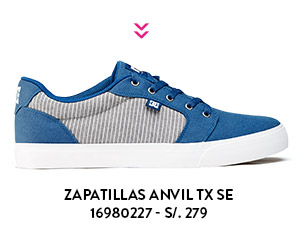
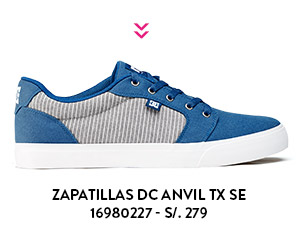
ajustes en responsive

Changed region(s): [[0.1812, 0.7714, 0.8456, 0.8286]]

diff --git a/js/main.js b/js/main.js
@@ -10,7 +10,7 @@ fb[12] = '¡Arma tu look con estas zapatillas! CONVERSE CHUCK TAYLOR ALL STAR S/
 fb[31] = '¡Arma tu look con estas zapatillas! CHUCK TAYLOR ALL STAR HIGH STREET S/. 199 Descubre más en www.viernesdezapatillas.pe #Ripley #viernesdezapatillas';
 fb[7] = '¡Arma tu look con estas zapatillas! ADIDAS PLIMCANA LOW S/. 249 Descubre más en www.viernesdezapatillas.pe #Ripley #viernesdezapatillas';
 fb[9] = '¡Arma tu look con estas zapatillas! NIKE PROMO COURT S/. 229 Descubre más en www.viernesdezapatillas.pe #Ripley #viernesdezapatillas';
-fb[5] = '¡Arma tu look con estas zapatillas! POE BURNISH BRIGHTS S/. 379 Descubre más en www.viernesdezapatillas.pe #Ripley #viernesdezapatillas';
+fb[5] = '¡Arma tu look con estas zapatillas! CATERPILLAR POE BURNISH BRIGHTS S/. 379 Descubre más en www.viernesdezapatillas.pe #Ripley #viernesdezapatillas';
 fb[11] = '¡Arma tu look con estas zapatillas! ADIDAS PLIMCANA S/. 259 Descubre más en www.viernesdezapatillas.pe #Ripley #viernesdezapatillas';
 fb[13] = '¡Arma tu look con estas zapatillas! NEW BALANCE GRIS S/. 249 Descubre más en www.viernesdezapatillas.pe #Ripley #viernesdezapatillas';
 fb[23] = '¡Arma tu look con estas zapatillas! PUMA FTR TF- RACER S/. 189 Descubre más en www.viernesdezapatillas.pe #Ripley #viernesdezapatillas';
@@ -30,7 +30,7 @@ fb[28] = '¡Arma tu look con estas zapatillas! NEW BALANCE S/. 239 Descubre más
 fb[26] = '¡Arma tu look con estas zapatillas! NEW BALANCE S/. 229 Descubre más en www.viernesdezapatillas.pe #Ripley #viernesdezapatillas';
 fb[24] = '¡Arma tu look con estas zapatillas! ADIDAS RACER LITE W S/. 239 Descubre más en www.viernesdezapatillas.pe #Ripley #viernesdezapatillas';
 fb[21] = '¡Arma tu look con estas zapatillas! DC Counsil SD S/. 279 Descubre más en www.viernesdezapatillas.pe #Ripley #viernesdezapatillas';
-fb[19] = '¡Arma tu look con estas zapatillas! ANVIL TX SE S/. 279 Descubre más en www.viernesdezapatillas.pe #Ripley #viernesdezapatillas';
+fb[19] = '¡Arma tu look con estas zapatillas! DC ANVIL TX SE S/. 279 Descubre más en www.viernesdezapatillas.pe #Ripley #viernesdezapatillas';
 fb[17] = '¡Arma tu look con estas zapatillas! GOTCHA GT-1510 S/. 129 Descubre más en www.viernesdezapatillas.pe #Ripley #viernesdezapatillas';
 var tw = [];
 tw[29] = 'https://twitter.com/home?status=%C2%A1Arma%20tu%20look%20con%20estas%20zapatillas!%20ADIDAS%20ZX%20FLUX%20S/.29%20Descubre%20m%C3%A1s%20en%20viernesdezapatillas.pe%20%23Ripley%20%23viernesdezapatillas';
@@ -42,7 +42,7 @@ tw[12] = 'https://twitter.com/home?status=%C2%A1Arma%20tu%20look%20con%20estas%2
 tw[31] = 'https://twitter.com/home?status=%C2%A1Arma%20tu%20look%20con%20estas%20zapatillas!%20CHUCK%20TAYLOR%20HIGH%20STREET%20S/.199%20Descubre%20m%C3%A1s%20en%20viernesdezapatillas.pe%20%23Ripley%20%23viernesdezapatillas';
 tw[7] = 'https://twitter.com/home?status=%C2%A1Arma%20tu%20look%20con%20estas%20zapatillas!%20ADIDAS%20PLIMCANA%20LOW%20S/.249%20Descubre%20m%C3%A1s%20en%20viernesdezapatillas.pe%20%23Ripley%20%23viernesdezapatillas';
 tw[9] = 'https://twitter.com/home?status=%C2%A1Arma%20tu%20look%20con%20estas%20zapatillas!%20NIKE%20PROMO%20COURT%20S/.229%20Descubre%20m%C3%A1s%20en%20viernesdezapatillas.pe%20%23Ripley%20%23viernesdezapatillas';
-tw[5] = 'https://twitter.com/home?status=%C2%A1Arma%20tu%20look%20con%20estas%20zapatillas!%20POE%20BURNISH%20BRIGHTS%20S/.379%20Descubre%20m%C3%A1s%20en%20viernesdezapatillas.pe%20%23Ripley%20%23viernesdezapatillas';
+tw[5] = 'https://twitter.com/home?status=%C2%A1Arma%20tu%20look%20con%20estas%20zapatillas!%20CATERPILLAR%20POE%20BURNISH%20BRIGHTS%20S/.379%20Descubre%20m%C3%A1s%20en%20viernesdezapatillas.pe%20%23Ripley%20%23viernesdezapatillas';
 tw[11] = 'https://twitter.com/home?status=%C2%A1Arma%20tu%20look%20con%20estas%20zapatillas!%20ADIDAS%20PLIMCANA%20S/.259%20Descubre%20m%C3%A1s%20en%20viernesdezapatillas.pe%20%23Ripley%20%23viernesdezapatillas';
 tw[13] = 'https://twitter.com/home?status=%C2%A1Arma%20tu%20look%20con%20estas%20zapatillas!%20NEW%20BALANCE%20GRIS%20S/.249%20Descubre%20m%C3%A1s%20en%20viernesdezapatillas.pe%20%23Ripley%20%23viernesdezapatillas';
 tw[23] = 'https://twitter.com/home?status=%C2%A1Arma%20tu%20look%20con%20estas%20zapatillas!%20PUMA%20FTR%20TF-%20RACER%20S/.189%20Descubre%20m%C3%A1s%20en%20viernesdezapatillas.pe%20%23Ripley%20%23viernesdezapatillas';
@@ -62,7 +62,7 @@ tw[28] = 'https://twitter.com/home?status=%C2%A1Arma%20tu%20look%20con%20estas%2
 tw[26] = 'https://twitter.com/home?status=%C2%A1Arma%20tu%20look%20con%20estas%20zapatillas!%20NEW%20BALANCE%20S/.229%20Descubre%20m%C3%A1s%20en%20viernesdezapatillas.pe%20%23Ripley%20%23viernesdezapatillas';
 tw[24] = 'https://twitter.com/home?status=%C2%A1Arma%20tu%20look%20con%20estas%20zapatillas!%20ADIDAS%20RACER%20LITE%20W%20S/.239%20Descubre%20m%C3%A1s%20en%20viernesdezapatillas.pe%20%23Ripley%20%23viernesdezapatillas';
 tw[21] = 'https://twitter.com/home?status=%C2%A1Arma%20tu%20look%20con%20estas%20zapatillas!%20DC%20Counsil%20SD%20S/.279%20Descubre%20m%C3%A1s%20en%20viernesdezapatillas.pe%20%23Ripley%20%23viernesdezapatillas';
-tw[19] = 'https://twitter.com/home?status=%C2%A1Arma%20tu%20look%20con%20estas%20zapatillas!%20ANVIL%20TX%20SE%20S/.279%20Descubre%20m%C3%A1s%20en%20viernesdezapatillas.pe%20%23Ripley%20%23viernesdezapatillas';
+tw[19] = 'https://twitter.com/home?status=%C2%A1Arma%20tu%20look%20con%20estas%20zapatillas!%20DC%20ANVIL%20TX%20SE%20S/.279%20Descubre%20m%C3%A1s%20en%20viernesdezapatillas.pe%20%23Ripley%20%23viernesdezapatillas';
 tw[17] = 'https://twitter.com/home?status=%C2%A1Arma%20tu%20look%20con%20estas%20zapatillas!%20GOTCHA%20GT-1507%20S/.129%20Descubre%20m%C3%A1s%20en%20viernesdezapatillas.pe%20%23Ripley%20%23viernesdezapatillas';
 
 function actualizarAlto(alto) {

diff --git a/css/mobile.css b/css/mobile.css
@@ -26,17 +26,6 @@ body {
 p {
 	margin-bottom:0
 }
-.no-gutter > [class*='col-'] {
-	padding-right:0;
-	padding-left:0
-}
-hr.separador {
-	border:1px solid #333;
-	height:0
-}
-.separador {
-	height:20%
-}
 .navbar {
 	z-index:11
 }
@@ -62,17 +51,6 @@ hr.separador {
 	-webkit-transform:rotate(180deg); /* Chrome, Safari, Opera */
 	transform:rotate(180deg);
 }
-.barra-menu {
-	position:absolute;
-	top:30px;
-	right:3%
-}
-.barra-menu a {
-	color:#000;
-	font-size:17px;
-	font-family:'gotham_htfbold';
-	margin-left:12px
-}
 footer {
 	background-color:#000;
 	height:42px;
@@ -85,14 +63,9 @@ footer p {
 }
 .landing {
 	background-color:#f9e52e;
-	background-image:url('../img/landing-zapatilla.jpg');
-	background-position:center center;
-	background-repeat:no-repeat;
-	background-attachment:fixed;
-	background-size:cover;
-	-webkit-background-size:cover;
-	-moz-background-size:cover;
-	-o-background-size:cover
+	background-image:url('../img/landing-zapatilla-mobile.jpg');
+	background-position:center bottom;
+	background-repeat:no-repeat
 }
 .home .contenido {
 	border:15px solid #f9e52e;
@@ -116,39 +89,6 @@ footer p {
 }
 div.calendario {
 	
-}
-td.calendario {
-	position:relative
-}
-td.calendario img {
-	border:5px solid #fff;
-	padding:2px 12px
-}
-td.calendario:hover img {
-	border:5px solid #f9e52e
-}
-td.calendario .ayuda {
-	border:none!important;
-	position:absolute;
-	left:50%;
-	bottom:0;
-	margin-left:-41px;
-	padding:0
-}
-.cerrar {
-	cursor:pointer;
-	margin-left:65%
-}
-.look.vacio {
-	margin-top:50%
-}
-.look.zapatilla {
-	margin-top:5%
-}
-.scroll-pane {
-	width:100%;
-	height:564px;
-	overflow:auto
 }
 .lookbook {
 	background-color:#009fe3
@@ -199,7 +139,7 @@ td.calendario .ayuda {
 	margin:6px
 }
 .top5 {
-	background:linear-gradient(180deg, white 70%, #f8db1b 30%)
+	
 }
 .top5 .container {
 	
@@ -216,6 +156,11 @@ td.calendario .ayuda {
 	top:0;
 	right:20px
 }
+.top5 p {
+	font-family:'brandon_grotesquebold';
+	font-size:13px
+}
+
 
 @media (max-width:767px) {
 	.grid-item {
@@ -242,23 +187,5 @@ td.calendario .ayuda {
 	}
 	.ayuda {
 		display:none!important
-	}
-	.top5 {
-		background:none
-	}
-}
-@media (max-width:1100px) {
-	.barra-menu a {
-		font-size:15px
-	}
-}
-@media (min-width:1200px) {
-	.top5 .container {
-		width:1250px;
-	}
-}
-@media (min-width:1450px) {
-	.top5 .container {
-		width:1500px;
 	}
 }

diff --git a/app/views/mobile.blade.php b/app/views/mobile.blade.php
@@ -764,7 +764,12 @@
 				<div class="slide" id="slide33">
 					<div class="row">
 						<div class="col-xs-8 col-xs-offset-2">
-							<img src="{{url()}}/img/top5/zapatilla-1.jpg" alt="" class="img-responsive center-block"><br><br>
+							<p class="text-center">
+								<img src="{{url()}}/img/top5/zapatilla-1.jpg" alt="" class="img-responsive center-block">
+								<br>
+								NEW BALANCE ZAPATILLA WL420DFA 17000538 S/. 239
+								<br><br>
+							</p>
 						</div>
 					</div>
 				</div>
@@ -778,7 +783,12 @@
 				<div class="slide" id="slide35">
 					<div class="row">
 						<div class="col-xs-8 col-xs-offset-2">
-							<img src="{{url()}}/img/top5/zapatilla-2.jpg" alt="" class="img-responsive center-block"><br><br>
+							<p class="text-center">
+								<img src="{{url()}}/img/top5/zapatilla-2.jpg" alt="" class="img-responsive center-block">
+								<br>
+								NIKE ZAPATILLA EASTHAM MID 16997073 S/. 299
+								<br><br>
+							</p>
 						</div>
 					</div>
 				</div>
@@ -792,7 +802,12 @@
 				<div class="slide" id="slide37">
 					<div class="row">
 						<div class="col-xs-8 col-xs-offset-2">
-							<img src="{{url()}}/img/top5/zapatilla-3.jpg" alt="" class="img-responsive center-block"><br><br>
+							<p class="text-center">
+								<img src="{{url()}}/img/top5/zapatilla-3.jpg" alt="" class="img-responsive center-block">
+								<br>
+								CONVERSE ZAPATILLA CHUCK TAYLOR ALL STAR 547257C 16992994 S/. 199
+								<br><br>
+							</p>
 						</div>
 					</div>
 				</div>
@@ -806,7 +821,12 @@
 				<div class="slide" id="slide39">
 					<div class="row">
 						<div class="col-xs-8 col-xs-offset-2">
-							<img src="{{url()}}/img/top5/zapatilla-4.jpg" alt="" class="img-responsive center-block"><br><br>
+							<p class="text-center">
+								<img src="{{url()}}/img/top5/zapatilla-4.jpg" alt="" class="img-responsive center-block">
+								<br>
+								ADIDAS ZAPATILLA ZX FIUX B34517 16842846 S/. 299
+								<br><br>
+							</p>
 						</div>
 					</div>
 				</div>
@@ -820,7 +840,12 @@
 				<div class="slide" id="slide41">
 					<div class="row">
 						<div class="col-xs-8 col-xs-offset-2">
-							<img src="{{url()}}/img/top5/zapatilla-5.jpg" alt="" class="img-responsive center-block"><br><br>
+							<p class="text-center">
+								<img src="{{url()}}/img/top5/zapatilla-5.jpg" alt="" class="img-responsive center-block">
+								<br>
+								PUMA ZAPATILLA CARSON RUNNER GLITCH 16991355 S/. 199
+								<br><br>
+							</p>
 						</div>
 					</div>
 				</div>
@@ -831,7 +856,9 @@
 				<div class="slide" id="slide42">
 					<div class="lookbook-detalle amarillo center-block">
 						<p class="text-center">
-							<img src="{{url()}}/img/lookbook/01.jpg" alt="" class="img-responsive center-block">
+							<a href="http://camillewalala.com/" target="_blank">
+								<img src="{{url()}}/img/lookbook/01.jpg" alt="" class="img-responsive center-block">
+							</a>
 							<br>
 							CAT ZAPATILLA MARI CANVAS WALALA<br>
 							17001556 - S/. 299
@@ -1148,14 +1175,14 @@
 						<p class="text-center">
 							<img src="{{url()}}/img/lookbook/30.jpg" alt="" class="img-responsive center-block">
 							<br>
-							NEW BALANCE ZAPATILLA ML400SNF<br>
-							16986608 - S/. 159
+							NEW BALANCE ZAPATILLA NBL U410 CC<br>
+							16979924 - S/. 199
 						</p>
 						<p class="text-center">
-							<a href="#" class="compartir-facebook" data-imagen="{{url()}}/img/lookbook/30.jpg" data-texto="¡Me fascinaron estas zapatillas! NEW BALANCE ML400SNF S/.159 Descubre más en www.viernesdezapatillas.pe #Moda #Ripley #viernesdezapatillas">
+							<a href="#" class="compartir-facebook" data-imagen="{{url()}}/img/lookbook/30.jpg" data-texto="¡Me fascinaron estas zapatillas! NEW BALANCE NBL U410 CC S/.199 Descubre más en www.viernesdezapatillas.pe #Moda #Ripley #viernesdezapatillas">
 								<img src="{{url()}}/img/lookbook-compartir-facebook.png" alt="">
 							</a>
-							<a href="https://twitter.com/home?status=%C2%A1Me%20encantaron%20estas%20zapatillas!%20NEW%20BALANCE%20ML400SNF%20S/.159%20Descubre%20m%C3%A1s%20en%20viernesdezapatillas.pe%20%23Ripley%20%23viernesdezapatillas" target="_blank">
+							<a href="https://twitter.com/home?status=%C2%A1Me%20encantaron%20estas%20zapatillas!%20NEW%20BALANCE%20NBL%20U410%20CC%20S/.199%20Descubre%20m%C3%A1s%20en%20viernesdezapatillas.pe%20%23Ripley%20%23viernesdezapatillas" target="_blank">
 								<img src="{{url()}}/img/lookbook-compartir-twitter.png" alt="">
 							</a>
 							<br>
@@ -1295,14 +1322,14 @@
 						<p class="text-center">
 							<img src="{{url()}}/img/lookbook/27.jpg" alt="" class="img-responsive center-block">
 							<br>
-							NEW BALANCE ZAPATILLA NBL U410 CC<br>
-							16979924 - S/. 199
+							INDEX ZAPATILLA NADI<br>
+							16791638 - S/. 69.90
 						</p>
 						<p class="text-center">
-							<a href="#" class="compartir-facebook" data-imagen="{{url()}}/img/lookbook/27.jpg" data-texto="¡Me fascinaron estas zapatillas! NEW BALANCE NBL U410 CC S/.199 Descubre más en www.viernesdezapatillas.pe #Moda #Ripley #viernesdezapatillas">
+							<a href="#" class="compartir-facebook" data-imagen="{{url()}}/img/lookbook/27.jpg" data-texto="¡Me fascinaron estas zapatillas! INDEX NADI S/.69.90 Descubre más en www.viernesdezapatillas.pe #Moda #Ripley #viernesdezapatillas">
 								<img src="{{url()}}/img/lookbook-compartir-facebook.png" alt="">
 							</a>
-							<a href="https://twitter.com/home?status=%C2%A1Me%20encantaron%20estas%20zapatillas!%20NEW%20BALANCE%20NBL%20U410%20CC%20S/.199%20Descubre%20m%C3%A1s%20en%20viernesdezapatillas.pe%20%23Ripley%20%23viernesdezapatillas" target="_blank">
+							<a href="https://twitter.com/home?status=%C2%A1Me%20encantaron%20estas%20zapatillas!%20INDEX%20NADI%20S/.69.90%20Descubre%20m%C3%A1s%20en%20viernesdezapatillas.pe%20%23Ripley%20%23viernesdezapatillas" target="_blank">
 								<img src="{{url()}}/img/lookbook-compartir-twitter.png" alt="">
 							</a>
 							<br>
@@ -1442,14 +1469,14 @@
 						<p class="text-center">
 							<img src="{{url()}}/img/lookbook/29.jpg" alt="" class="img-responsive center-block">
 							<br>
-							INDEX ZAPATILLA NADI<br>
-							16791638 - S/. 69.90
+							NEW BALANCE ZAPATILLA ML400SNF<br>
+							16986608 - S/. 159
 						</p>
 						<p class="text-center">
-							<a href="#" class="compartir-facebook" data-imagen="{{url()}}/img/lookbook/29.jpg" data-texto="¡Me fascinaron estas zapatillas! INDEX NADI S/.69.90 Descubre más en www.viernesdezapatillas.pe #Moda #Ripley #viernesdezapatillas">
+							<a href="#" class="compartir-facebook" data-imagen="{{url()}}/img/lookbook/29.jpg" data-texto="¡Me fascinaron estas zapatillas! NEW BALANCE ML400SNF S/.159 Descubre más en www.viernesdezapatillas.pe #Moda #Ripley #viernesdezapatillas">
 								<img src="{{url()}}/img/lookbook-compartir-facebook.png" alt="">
 							</a>
-							<a href="https://twitter.com/home?status=%C2%A1Me%20encantaron%20estas%20zapatillas!%20INDEX%20NADI%20S/.69.90%20Descubre%20m%C3%A1s%20en%20viernesdezapatillas.pe%20%23Ripley%20%23viernesdezapatillas" target="_blank">
+							<a href="https://twitter.com/home?status=%C2%A1Me%20encantaron%20estas%20zapatillas!%20NEW%20BALANCE%20ML400SNF%20S/.159%20Descubre%20m%C3%A1s%20en%20viernesdezapatillas.pe%20%23Ripley%20%23viernesdezapatillas" target="_blank">
 								<img src="{{url()}}/img/lookbook-compartir-twitter.png" alt="">
 							</a>
 							<br>

diff --git a/app/views/index.blade.php b/app/views/index.blade.php
@@ -1436,7 +1436,9 @@
 			<img src="{{url()}}/img/top5/05.jpg" alt="">
 			<div id="lookbook-detalle-1" class="lookbook-detalle amarillo">
 				<p class="text-center">
-					<img src="{{url()}}/img/lookbook/01.jpg" alt="" class="img-responsive center-block">
+					<a href="http://camillewalala.com/" target="_blank">
+						<img src="{{url()}}/img/lookbook/01.jpg" alt="" class="img-responsive center-block">
+					</a>
 					<br>
 					CAT ZAPATILLA MARI CANVAS WALALA<br>
 					17001556 - S/. 299
@@ -1711,14 +1713,14 @@
 				<p class="text-center">
 					<img src="{{url()}}/img/lookbook/30.jpg" alt="" class="img-responsive center-block">
 					<br>
-					NEW BALANCE ZAPATILLA ML400SNF<br>
-					16986608 - S/. 159
+					NEW BALANCE ZAPATILLA NBL U410 CC<br>
+					16979924 - S/. 199
 				</p>
 				<p class="text-center">
-					<a href="#" class="compartir-facebook" data-imagen="{{url()}}/img/lookbook/30.jpg" data-texto="¡Me fascinaron estas zapatillas! NEW BALANCE ML400SNF S/.159 Descubre más en www.viernesdezapatillas.pe #Moda #Ripley #viernesdezapatillas">
+					<a href="#" class="compartir-facebook" data-imagen="{{url()}}/img/lookbook/30.jpg" data-texto="¡Me fascinaron estas zapatillas! NEW BALANCE NBL U410 CC S/.199 Descubre más en www.viernesdezapatillas.pe #Moda #Ripley #viernesdezapatillas">
 						<img src="{{url()}}/img/lookbook-compartir-facebook.png" alt="">
 					</a>
-					<a href="https://twitter.com/home?status=%C2%A1Me%20encantaron%20estas%20zapatillas!%20NEW%20BALANCE%20ML400SNF%20S/.159%20Descubre%20m%C3%A1s%20en%20viernesdezapatillas.pe%20%23Ripley%20%23viernesdezapatillas" target="_blank">
+					<a href="https://twitter.com/home?status=%C2%A1Me%20encantaron%20estas%20zapatillas!%20NEW%20BALANCE%20NBL%20U410%20CC%20S/.199%20Descubre%20m%C3%A1s%20en%20viernesdezapatillas.pe%20%23Ripley%20%23viernesdezapatillas" target="_blank">
 						<img src="{{url()}}/img/lookbook-compartir-twitter.png" alt="">
 					</a>
 					<br>
@@ -1839,14 +1841,14 @@
 				<p class="text-center">
 					<img src="{{url()}}/img/lookbook/27.jpg" alt="" class="img-responsive center-block">
 					<br>
-					NEW BALANCE ZAPATILLA NBL U410 CC<br>
-					16979924 - S/. 199
+					INDEX ZAPATILLA NADI<br>
+					16791638 - S/. 69.90
 				</p>
 				<p class="text-center">
-					<a href="#" class="compartir-facebook" data-imagen="{{url()}}/img/lookbook/27.jpg" data-texto="¡Me fascinaron estas zapatillas! NEW BALANCE NBL U410 CC S/.199 Descubre más en www.viernesdezapatillas.pe #Moda #Ripley #viernesdezapatillas">
+					<a href="#" class="compartir-facebook" data-imagen="{{url()}}/img/lookbook/27.jpg" data-texto="¡Me fascinaron estas zapatillas! INDEX NADI S/.69.90 Descubre más en www.viernesdezapatillas.pe #Moda #Ripley #viernesdezapatillas">
 						<img src="{{url()}}/img/lookbook-compartir-facebook.png" alt="">
 					</a>
-					<a href="https://twitter.com/home?status=%C2%A1Me%20encantaron%20estas%20zapatillas!%20NEW%20BALANCE%20NBL%20U410%20CC%20S/.199%20Descubre%20m%C3%A1s%20en%20viernesdezapatillas.pe%20%23Ripley%20%23viernesdezapatillas" target="_blank">
+					<a href="https://twitter.com/home?status=%C2%A1Me%20encantaron%20estas%20zapatillas!%20INDEX%20NADI%20S/.69.90%20Descubre%20m%C3%A1s%20en%20viernesdezapatillas.pe%20%23Ripley%20%23viernesdezapatillas" target="_blank">
 						<img src="{{url()}}/img/lookbook-compartir-twitter.png" alt="">
 					</a>
 					<br>
@@ -1967,14 +1969,14 @@
 				<p class="text-center">
 					<img src="{{url()}}/img/lookbook/29.jpg" alt="" class="img-responsive center-block">
 					<br>
-					INDEX ZAPATILLA NADI<br>
-					16791638 - S/. 69.90
+					NEW BALANCE ZAPATILLA ML400SNF<br>
+					16986608 - S/. 159
 				</p>
 				<p class="text-center">
-					<a href="#" class="compartir-facebook" data-imagen="{{url()}}/img/lookbook/29.jpg" data-texto="¡Me fascinaron estas zapatillas! INDEX NADI S/.69.90 Descubre más en www.viernesdezapatillas.pe #Moda #Ripley #viernesdezapatillas">
+					<a href="#" class="compartir-facebook" data-imagen="{{url()}}/img/lookbook/29.jpg" data-texto="¡Me fascinaron estas zapatillas! NEW BALANCE ML400SNF S/.159 Descubre más en www.viernesdezapatillas.pe #Moda #Ripley #viernesdezapatillas">
 						<img src="{{url()}}/img/lookbook-compartir-facebook.png" alt="">
 					</a>
-					<a href="https://twitter.com/home?status=%C2%A1Me%20encantaron%20estas%20zapatillas!%20INDEX%20NADI%20S/.69.90%20Descubre%20m%C3%A1s%20en%20viernesdezapatillas.pe%20%23Ripley%20%23viernesdezapatillas" target="_blank">
+					<a href="https://twitter.com/home?status=%C2%A1Me%20encantaron%20estas%20zapatillas!%20NEW%20BALANCE%20ML400SNF%20S/.159%20Descubre%20m%C3%A1s%20en%20viernesdezapatillas.pe%20%23Ripley%20%23viernesdezapatillas" target="_blank">
 						<img src="{{url()}}/img/lookbook-compartir-twitter.png" alt="">
 					</a>
 					<br>
